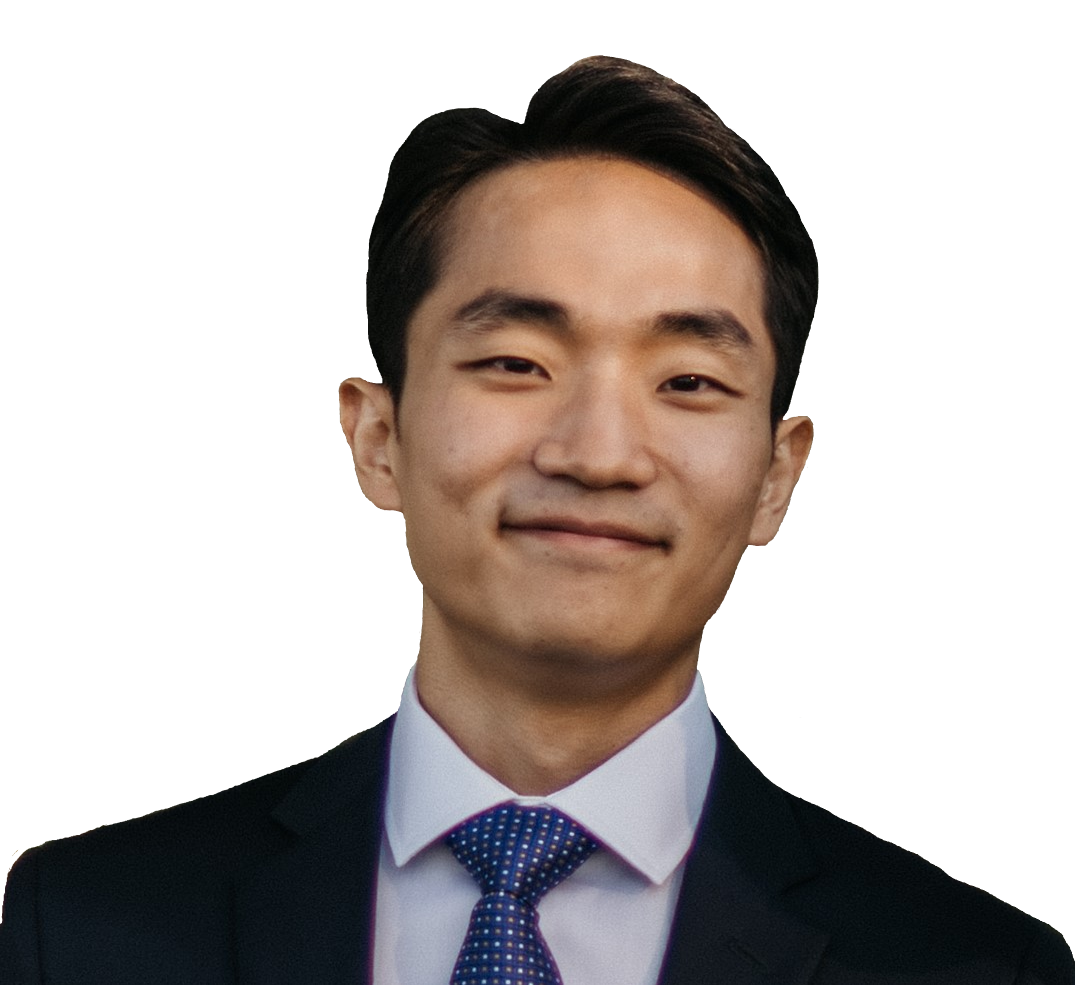
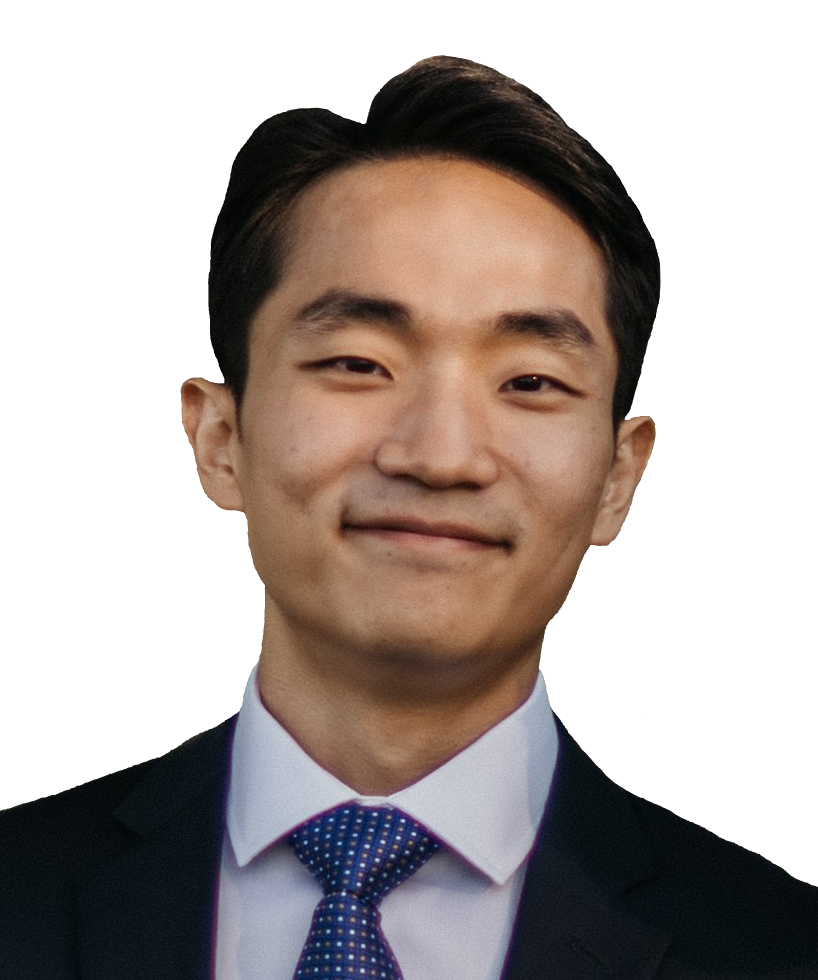
added circular navbar

diff --git a/styles/sass/_header.scss b/styles/sass/_header.scss
@@ -3,7 +3,52 @@
 }
 
 .navbar {
-    display: none;
+    position: absolute;
+    top: 10%;
+    left: 10%;
+    font-size: 0.9rem;
+    z-index: 10;
+    
+    &__logo {
+        display: none;
+    }
+
+    &__items {
+        display:flex;
+        height: 7vw;
+        
+        & li:nth-of-type(1) {
+            position: relative;
+            top: 66%;
+            transform: rotate(-63deg);
+            height: 5vw;
+        }
+
+        & li:nth-of-type(2) {
+            position: relative;
+            top: 0%;
+            transform: rotate(-32deg);
+        }
+
+        & li:nth-of-type(3) {
+            position: relative;
+            top: -20%;
+        }
+
+        & li:nth-of-type(4) {
+            position: relative;
+            top: -10%;
+            height: 15vw;
+            transform: rotate(25deg);
+        }
+
+        & li:nth-of-type(5) {
+            position: relative;
+            top: 40%;
+            transform: rotate(60deg);
+            height: 10vw;
+        }
+    }
 }
 
 .hero {
@@ -78,21 +123,34 @@
             z-index: -1;
         }
 
-        &__img {
+        &__circle {
             position: absolute;
-            height: 23vw;
-        }
-
-        &__panel {
-            position: absolute;
-            top: 23%;
-            right: 5%;
+            top: 18%;
+            right: 0%;
             clip-path: inset(0 0 0 0);
-            background-color: $forrest;
-            width: 23vw;
-            height: 23vw;
+            width: 30vw;
+            height: 25vw;
             z-index: -1;
             border-radius: 1000px;
+
+            &::after {
+                content: "";
+                position: absolute;
+                top: 15%;
+                left: 15%;
+                width: 70%;
+                height: 80%;
+                border-radius: 1000px;
+                background-color: $forrest;
+                z-index: -1;
+            }
+        }
+
+        &__img {
+            position: absolute;
+            bottom: 0;
+            left: 20%;
+            height: 21vw;
         }
     }
 }

diff --git a/index.html b/index.html
@@ -13,16 +13,7 @@
     <header class="header">
         <a href="#" class="skip-link">Skip to the main content</a>
         <div class="wrapper">
-            <nav class="navbar">
-                <a href="#" class="navbar__logo">Jun Choi</a>
-                <ul class="navbar__items">
-                    <li><a href="#">Home</a></li>
-                    <li><a href="#">About Me</a></li>
-                    <li><a href="#">Projects</a></li>
-                    <li><a href="#">Blog</a></li>
-                    <li><a href="#">Contact</a></li>
-                </ul>
-            </nav>
+
             <div class="hero">
                 <div class="hero__left">
                     <h1>Hello, My name is <span>Jun Choi</span></h1>
@@ -41,9 +32,19 @@
                 </div>
                 <div class="hero__right">
                     <div class="hero__right__bg"></div>
-                    <div class="hero__right__panel">
+                    <div class="hero__right__circle">
                         <img class="hero__right__img" src="./img/profile pic Jun.png"
                             alt="A profile picture of Jun Choi smiling">
+                        <nav class="navbar">
+                            <a href="#" class="navbar__logo">Jun Choi</a>
+                            <ul class="navbar__items">
+                                <li><a href="#">Home</a></li>
+                                <li><a href="#">About Me</a></li>
+                                <li><a href="#">Projects</a></li>
+                                <li><a href="#">Blog</a></li>
+                                <li><a href="#">Contact</a></li>
+                            </ul>
+                        </nav>
                     </div>
                 </div>
             </div>

diff --git a/css/main.css b/css/main.css
@@ -248,7 +248,7 @@ p {
 
 a {
   text-decoration: none;
-  color: #f0efed;
+  color: #2c2c2c;
 }
 
 ul, li {
@@ -310,7 +310,45 @@ fieldset {
 }
 
 .navbar {
+  position: absolute;
+  top: 10%;
+  left: 10%;
+  font-size: 0.9rem;
+  z-index: 10;
+}
+.navbar__logo {
   display: none;
+}
+.navbar__items {
+  display: flex;
+  height: 7vw;
+}
+.navbar__items li:nth-of-type(1) {
+  position: relative;
+  top: 66%;
+  transform: rotate(-63deg);
+  height: 5vw;
+}
+.navbar__items li:nth-of-type(2) {
+  position: relative;
+  top: 0%;
+  transform: rotate(-32deg);
+}
+.navbar__items li:nth-of-type(3) {
+  position: relative;
+  top: -20%;
+}
+.navbar__items li:nth-of-type(4) {
+  position: relative;
+  top: -10%;
+  height: 15vw;
+  transform: rotate(25deg);
+}
+.navbar__items li:nth-of-type(5) {
+  position: relative;
+  top: 40%;
+  transform: rotate(60deg);
+  height: 10vw;
 }
 
 .hero {
@@ -377,19 +415,31 @@ fieldset {
   width: 75vw;
   z-index: -1;
 }
-.hero__right__img {
+.hero__right__circle {
   position: absolute;
-  height: 23vw;
-}
-.hero__right__panel {
-  position: absolute;
-  top: 23%;
-  right: 5%;
+  top: 18%;
+  right: 0%;
   -webkit-clip-path: inset(0 0 0 0);
           clip-path: inset(0 0 0 0);
-  background-color: #86b68b;
-  width: 23vw;
-  height: 23vw;
+  width: 30vw;
+  height: 25vw;
   z-index: -1;
   border-radius: 1000px;
+}
+.hero__right__circle::after {
+  content: "";
+  position: absolute;
+  top: 15%;
+  left: 15%;
+  width: 70%;
+  height: 80%;
+  border-radius: 1000px;
+  background-color: #86b68b;
+  z-index: -1;
+}
+.hero__right__img {
+  position: absolute;
+  bottom: 0;
+  left: 20%;
+  height: 21vw;
 }

diff --git a/styles/sass/_typography.scss b/styles/sass/_typography.scss
@@ -16,7 +16,7 @@ p {
 
 a {
   text-decoration: none;
-  color: $offWhite;
+  color: $black;
 }
 
 ul, li {
